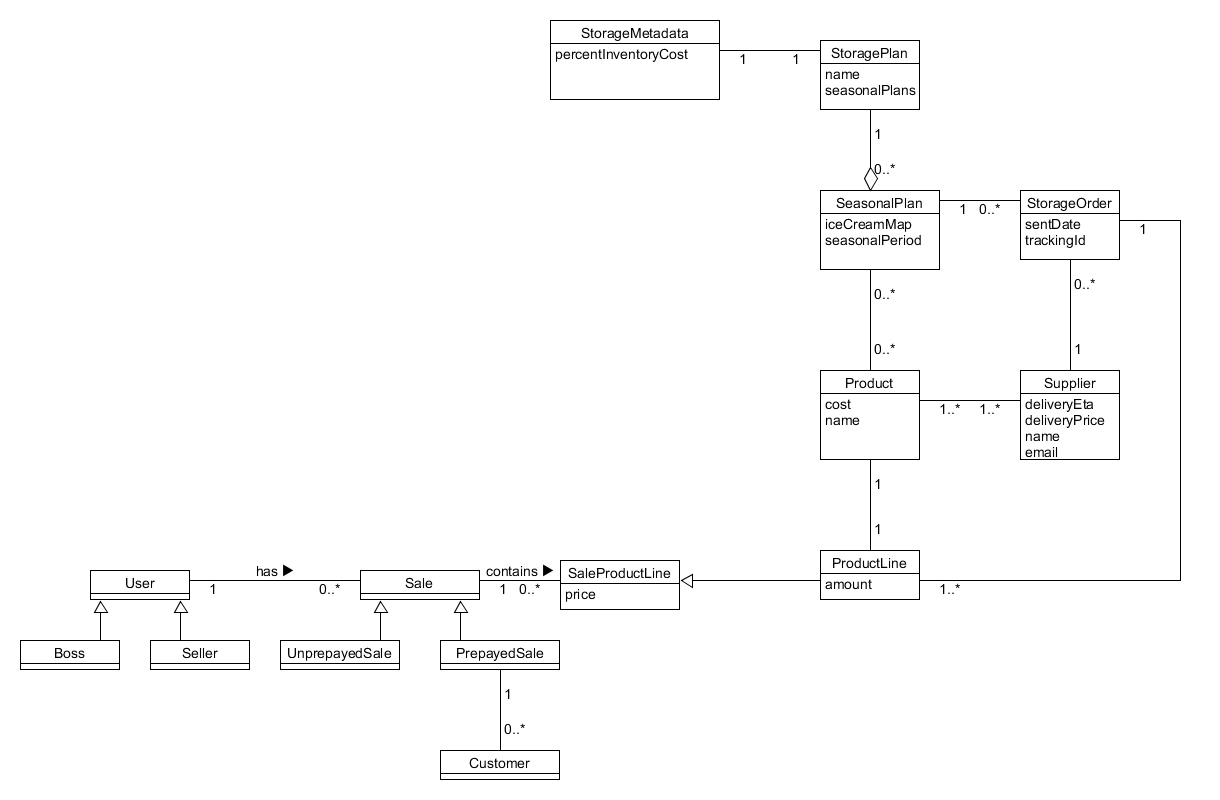
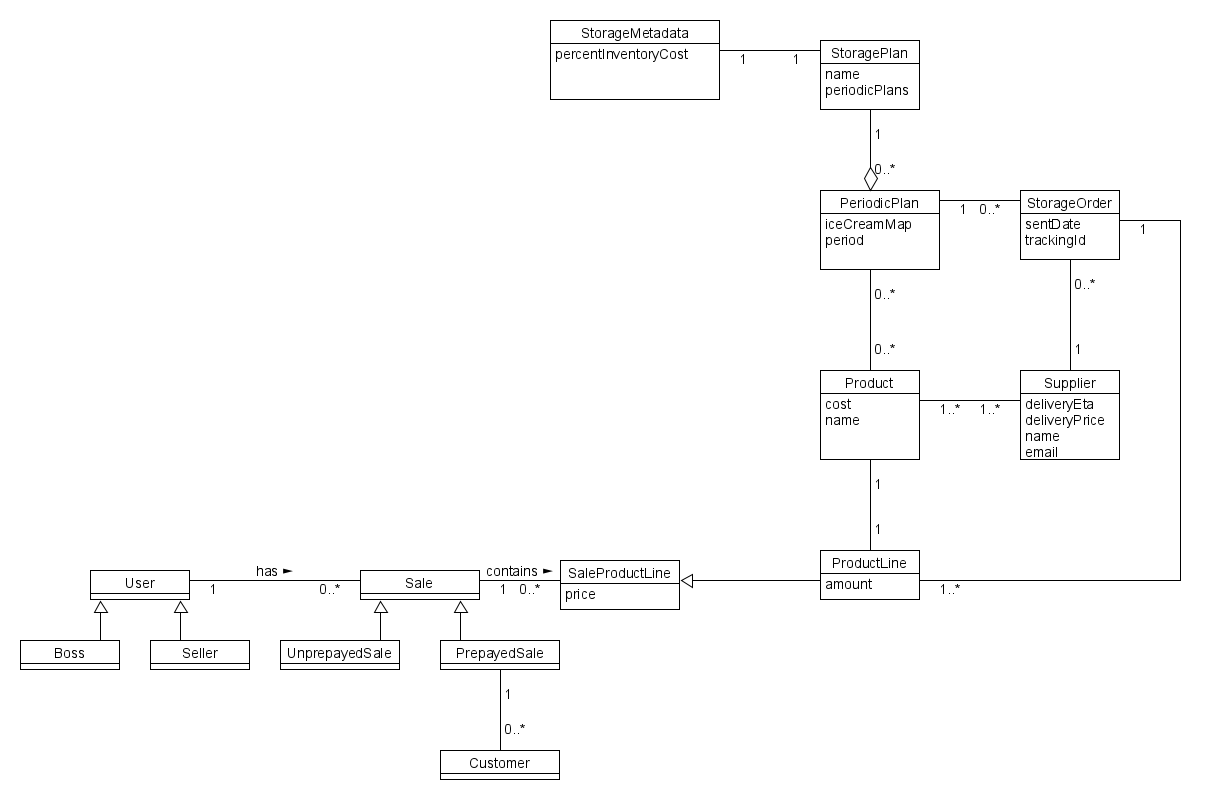
lotta updates, also SSD and operationskontrakt

diff --git a/sections/krav/funktionelle-krav.tex b/sections/krav/funktionelle-krav.tex
@@ -24,14 +24,14 @@ De alternative flows beskrevet i diagrammet er fundet gennem en diskussion, hvor
     \hline
     & 1. Aktøren trykker på "Lager" & 2. Viser lagerbeholdning \\
     \hline
-    & 3. Klikker på "Generer lagerplan" & 4. Fil-dialogboks omkring hvor bestillingsplanen skal gemmes. \\
-    & & 5. Planen gemmes og sendes automatisk til plan-fanen \\
+    & 3. Klikker på "Generer lagerplan" &  \\
+    & & 4. Planen gemmes og sendes automatisk til plan-fanen \\
     \hline
-    & 6. Klikker "Åben plan" & 7. Viser bestillingsplanen med mulighed for at kunne rette i den estimerede bestillingsplan. \\
+    & 5. Klikker "Åben plan" & 6. Viser bestillingsplanen med mulighed for at kunne rette i den estimerede bestillingsplan. \\
     \hline
-    & 8. Klikker "Opret bestilling" & 9. Opretter en bestilling af varer ud fra bestillingsplanen. \\
+    & 7. Gemmer rettelser ved at klikke "Gem plan" & 8. Opretter bestillinger af varer ud fra bestillingsplanen. \\
     \hline
-    & 10. Efter nogle dage registreres de ankomne varer i systemet & 11. Lagerstatus opdateret. \\
+    & 9. Efter nogle dage registreres de ankomne varer i systemet & 10. Lagerstatus opdateret. \\
     \hline
     \textbf{Alternative flows} & 0.1 Udgåede eller ødelagte varer skal afskrives & \\
     \hline
@@ -39,11 +39,7 @@ De alternative flows beskrevet i diagrammet er fundet gennem en diskussion, hvor
     \hline
     & 4.1 Aktøren vil gerne modificere planen, retter det i plan-fanen og gemmer planen & \\
     \hline
-    & & 5.1 Der er ikke mere plads på harddisken. \\
-    \hline
-    & 5.2 Aktøren sletter unødvendige filer for at gøre plads til planen. & 5.3 Gentag trin 5.\\
-    \hline
-    & & 9.1 Planen er tom. Der kan ikke oprettes en bestilling. Slut på flow. \\
+    & & 8.1 Planen er tom. Der kan ikke oprettes en bestilling. Giver en fejlbesked. \\
     \hline
 \end{longtable}
 

diff --git a/sections/analyse/analyse.tex b/sections/analyse/analyse.tex
@@ -1,0 +1,58 @@
+\chapter{Analyse}\label{sec:analyse}
+
+\section{Systemsekvensdiagram}
+\todo{write stuff about SSD}
+\begin{figure}
+    \centering
+    \includegraphics[width=\textwidth]{figures/analyse/SSD.png}
+    \caption{Systemsekvensdiagram}
+    \label{fig:ssd}
+\end{figure}
+
+
+\section{Operationskontrakt}
+\todo{write stuff about operationskontrakt}
+%remember to talk about the autogeneration continuation process thing algorithm stuff :) 
+
+\begin{center}
+    \begin{longtable}{ |p{360pt}| }
+        \hline
+        \textbf{Operationskontrakt}
+        \\
+        \noindent\fbox{%
+            \parbox{4.88in}{%
+                \textbf{Operation:} openPlanTab() Åbner planfanen i programmet
+                
+            }%
+        }
+
+        \noindent\fbox{%
+            \parbox{4.88in}{%
+                \textbf{Operation:} generateNewStoragePlan(name) 
+                
+            }%
+        }
+
+        \noindent\fbox{%
+            \parbox{4.88in}{%
+                \textbf{Operation:} openPlan()
+                
+            }%
+        }
+        
+        \noindent\fbox{%
+            \parbox{4.88in}{%
+                \textbf{Operation:} savePlan(periodicPlan)
+                
+            }%
+        }
+
+        \noindent\fbox{%
+            \parbox{4.88in}{%
+                \textbf{Operation:} updateStock(storageOrder)
+                
+            }%
+        }
+        
+    \end{longtable}
+\end{center}

diff --git a/sections/krav/informations-krav.tex b/sections/krav/informations-krav.tex
@@ -50,5 +50,5 @@ For at opfylde 2NF skal 1NF være opfyldt, og der skal ikke være nogle partial 
 
 For at opfylde 3NF skal 2NF være opfyldt, og der må ikke være nogle transitive afhængigheder. Det minder meget om kravet til 2NF, og det kan konkluderes at der ingen transitive afhængigheder er.
 For at opfylde BCNF kræves det at 3NF er opfyldt og at samtlige determinanter er kandidatnøgler. De determinanter, der er I den relationelle model er samtlige attributter med 'id' og '...\_id' på nær 'tracking\_id'. 'tracking\_id' sent\_date på varen. Der er derfor ingen afhængighed. 
+Det kan nu konkluderes at den relationelle model er på BCNF og kan udvikles i Microsoft SQL. Først skal der laves en analyse over systemet ud fra de funktionelle krav og informationskrav der er stillet op indtil videre. 
 
-Det kan nu konkluderes at den relationelle model er på BCNF og kan udvikles i Microsoft SQL.

diff --git a/master.tex b/master.tex
@@ -29,6 +29,8 @@
 
 \input{sections/krav/krav.tex}
 
+\input{sections/analyse/analyse.tex}
+
 \input{sections/conclusion/conclusion.tex}
 
 \printbibliography[heading=bibintoc]

diff --git a/sections/conclusion/conclusion.tex b/sections/conclusion/conclusion.tex
@@ -1,2 +1,2 @@
-\chapter{Conclusion}\label{ch:conclusion}
+\chapter{Konklusion}\label{ch:konklusion}
 Nothing here yet
